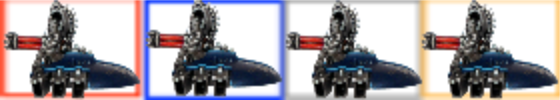
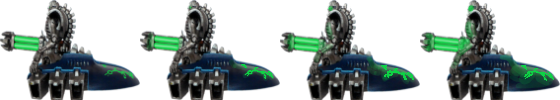
Update jump animation, improve fire sound, fix jumping / running animation after firing

diff --git a/src/Game.java b/src/Game.java
@@ -37,7 +37,7 @@ public class Game extends GameCore
 
     // Game state vars
     private float gravity = 0.0003f;
-    private boolean flap = false;
+    private boolean jump = false;
 
     private Hero player = null;
     // Key used to unlock exit for level.
@@ -73,7 +73,7 @@ public class Game extends GameCore
     // Represents total time since game elapsed
     private long total;
     // tracks player progress
-    private int LEVEL = 3;
+    private int LEVEL = 1;
     // used for random number generation
     private SecureRandom rng;
     // tracks game state
@@ -246,7 +246,6 @@ public class Game extends GameCore
 
         if (gameState.getPause() && ! gameState.getWin()) {
             int state = gameState.decideState(player.getHealth(), LEVEL, gameState.getPause(), boss);
-            System.out.println(gameState.getNewGame());
             menu.draw(g, state);
         } else if (gameState.getWin()) {
             g.setColor(new Color(50, 50, 50, 200));
@@ -281,8 +280,9 @@ public class Game extends GameCore
 
         player.setAnimationSpeed(1.0f);
 
-        if (flap)
+        if (jump)
         {
+            player.setJump();
             player.setAnimationSpeed(1.8f);
             player.setVelocityY(-0.2f);
         }
@@ -300,7 +300,11 @@ public class Game extends GameCore
             if (s.getAnimation().hasLooped()) {
                 s.hide();
                 fires.remove(s);
-                player.setIdle();
+                if (player.getVelocityX() > 0) {
+                    player.setRunning();
+                } else {
+                    player.setIdle();
+                }
             }
         }
 
@@ -313,7 +317,6 @@ public class Game extends GameCore
 
             // check if enemies are hit by player projectiles
             for (Projectile f : fires) {
-                // todo -
                 // only do this if the sprite is on-screen, we don't need to detect for every single enemy.
                 if (SpriteCollision.boundingBoxCollision(e, f)) {
                     // drain & kill the enemy!
@@ -434,7 +437,11 @@ public class Game extends GameCore
             return;
         }
 
-        if (key == KeyEvent.VK_UP) flap = true;
+        if (key == KeyEvent.VK_UP){
+            jump = true;
+        } else {
+            jump = false;
+        }
 
         if (key == KeyEvent.VK_RIGHT) {
             player.setRunning();
@@ -482,7 +489,7 @@ public class Game extends GameCore
         // Need to use break to prevent fall through.
         switch (key)
         {
-            case KeyEvent.VK_UP     : flap = false; break;
+            case KeyEvent.VK_UP     : jump = false; break;
             case KeyEvent.VK_LEFT   :
                 if (player.getVelocityX() < 0) {
                     player.setVelocityX(0);
@@ -558,7 +565,6 @@ public class Game extends GameCore
             }
 
             LEVEL = LEVEL + 1;
-            System.out.println("LVL" + LEVEL);
 
             // add a delay using a timer without pausing the current execution thread
             Timer t = new Timer();
@@ -653,11 +659,11 @@ public class Game extends GameCore
     private void gg() {
         // hide the boss and set it to null
         boss.hide();
-
-        System.out.println("Player has won the game");
+        // pause the game and display the new game menu
         gameState.setNewGame(true);
         gameState.setPause(true);
         gameState.setWin(true);
+        // reset levels
         LEVEL = 1;
 
     }

diff --git a/src/sprite/Hero.java b/src/sprite/Hero.java
@@ -11,6 +11,8 @@ public class Hero extends Sprite {
     private final String imagePathIdle = "images/character_idle.png";
     private Animation fire = new Animation();
     private final String imagePathfire = "images/fireanim.png";
+    private Animation jump = new Animation();
+    private final String imagePathjump = "images/character_jump.png";
     private Animation running = new Animation();
     private final String imagePathRunning = "images/character_run.png";
     private int health = 1000;
@@ -21,6 +23,7 @@ public class Hero extends Sprite {
         idle.loadAnimationFromSheet(imagePathIdle, 9, 1, 120);
         running.loadAnimationFromSheet(imagePathRunning, 5, 1, 120);
         fire.loadAnimationFromSheet(imagePathfire,5,1,60);
+        jump.loadAnimationFromSheet(imagePathjump, 5,1,60);
         setIdle();
     }
 
@@ -36,6 +39,13 @@ public class Hero extends Sprite {
      */
     public void setFire() {
         setAnimation(fire);
+    }
+
+    /**
+     * Switch to jump animation
+     */
+    public void setJump() {
+        setAnimation(jump);
     }
 
     /**
